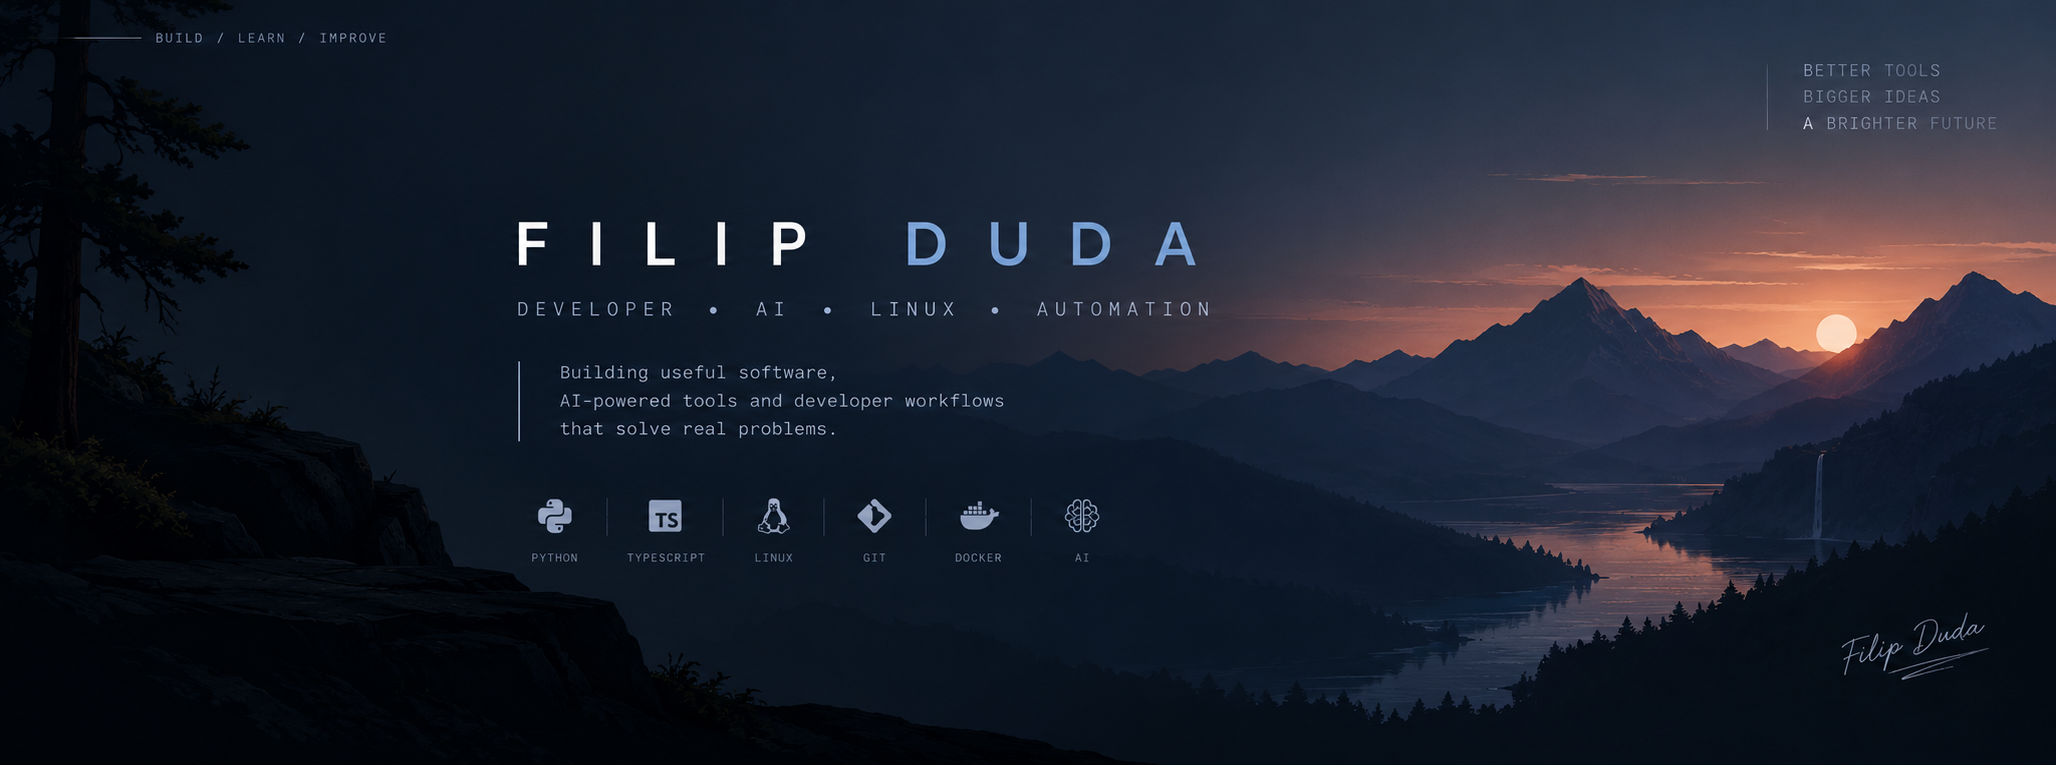
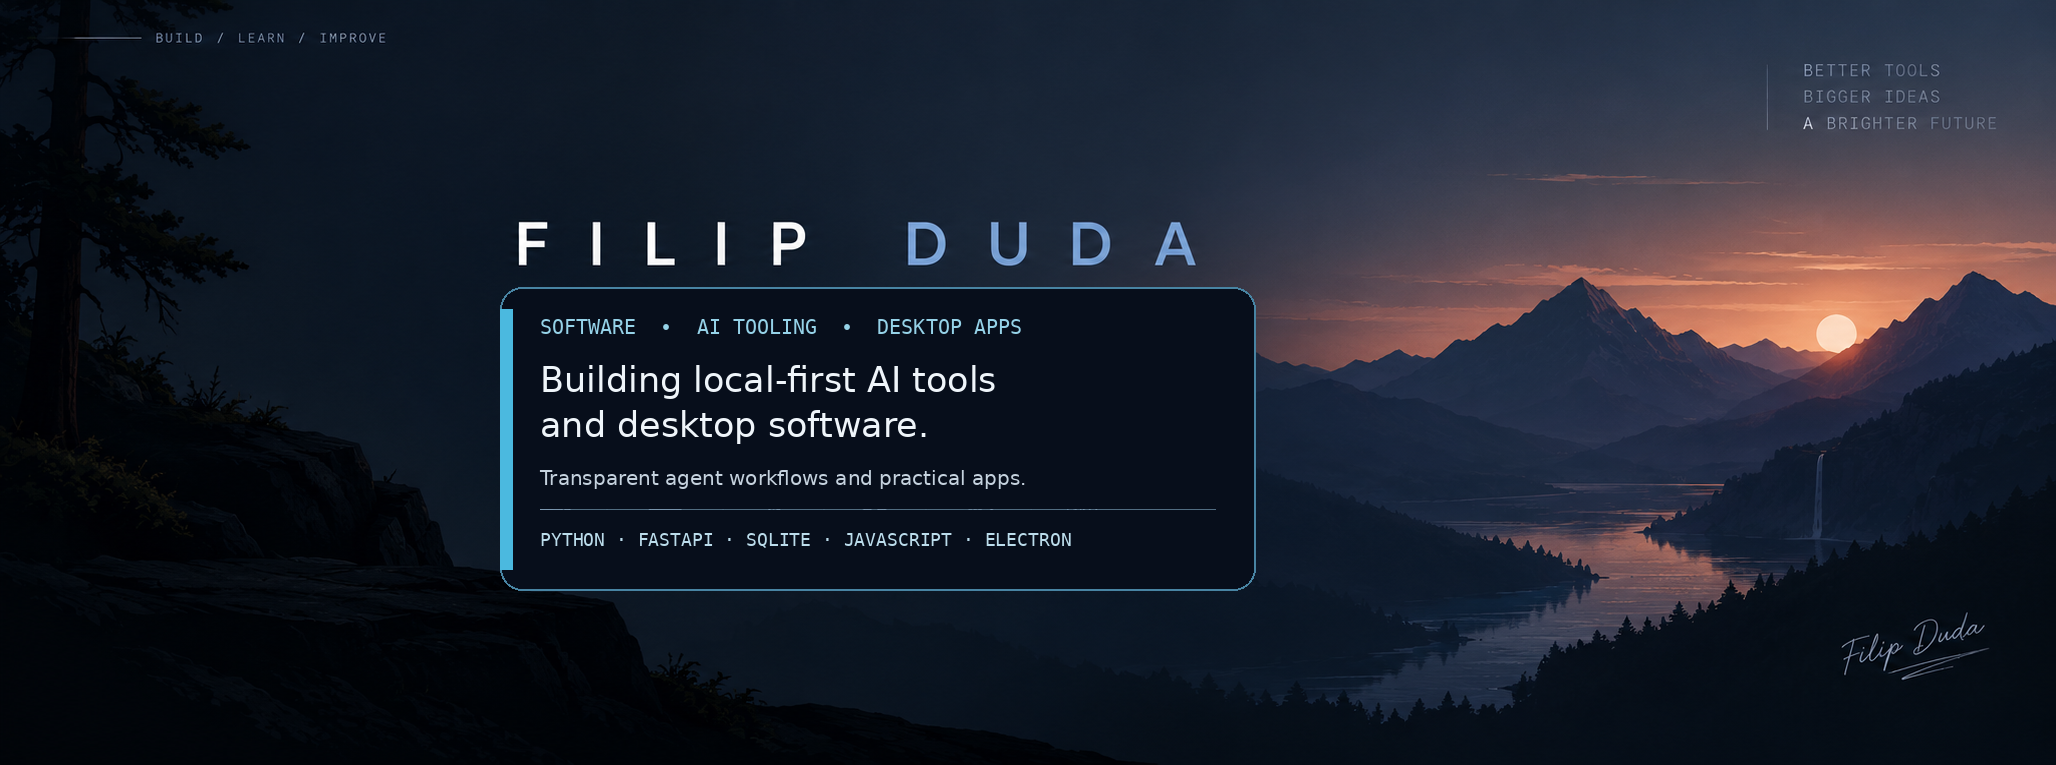
Align profile README with verified public projects

Changed region(s): [[0.2179, 0.3608, 0.6226, 0.7516]]

diff --git a/README.md b/README.md
@@ -1,21 +1,19 @@
 <div align="center">
   <img src="assets/profile-banner.png"
-       alt="Filip Duda — Developer"
+       alt="Filip Duda — developer building local-first AI tools and desktop apps with Python, FastAPI, SQLite, JavaScript, and Electron"
        width="100%">
 </div>
 
+# 👋 Hi, I'm Filip
 
-# 👋 Hello there, I'mmmmm Filip
+### Developer • AI tooling • local-first software
 
-### Developer • AI • Linux • Automation
-
-I build software, AI-powered tools, and developer workflows focused on practical problems.
+I build local-first tools with inspectable agent workflows and practical desktop apps.
 
 ## 🧠 What I'm building
 
-- 🚀 **Helm** — a local-first workspace for supervised AI-agent work.
-- 🤖 **AI agents** — automation and agentic workflows.
-- 🐧 **Linux tools** — custom utilities and workflows.
+- 🚀 **[Helm](https://github.com/menamefilip/helm)** — a local-first workspace for supervised AI-agent work.
+- 🎧 **[Music Buddy](https://github.com/menamefilip/music-player)** — an Electron desktop audio-file visualizer.
 
 ## 🚀 Featured project
 
@@ -30,13 +28,25 @@ Helm brings projects, chats, staged runs, and reviewable artifacts into one loca
 
 [![Helm tests](https://github.com/menamefilip/helm/actions/workflows/ci.yml/badge.svg)](https://github.com/menamefilip/helm/actions/workflows/ci.yml)
 
-![Helm workspace preview](https://raw.githubusercontent.com/menamefilip/helm/main/assets/helm-demo.png)
+![Illustrative Helm UI mockup — synthetic design, not a live screenshot](https://raw.githubusercontent.com/menamefilip/helm/main/assets/helm-demo.png)
 
 **Built with:** Python · FastAPI · SQLite · JavaScript · pytest · GitHub Actions
 
+## 🎧 Other project
+
+### [Music Buddy](https://github.com/menamefilip/music-player)
+
+A small Electron desktop widget that plays selected local audio files and visualizes their frequency spectrum.
+
+[![Music Buddy checks](https://github.com/menamefilip/music-player/actions/workflows/ci.yml/badge.svg)](https://github.com/menamefilip/music-player/actions/workflows/ci.yml)
+
+![Music Buddy UI preview in its empty state, with no audio loaded](https://raw.githubusercontent.com/menamefilip/music-player/master/assets/music-buddy-ui.png)
+
+**Built with:** JavaScript · Electron · Web Audio API
+
 ## 🛠 Tech
 
-Python · TypeScript · JavaScript · Linux · Git · AI
+Python · FastAPI · SQLite · JavaScript · Electron · Git
 
 ## 📫 Contact
 
